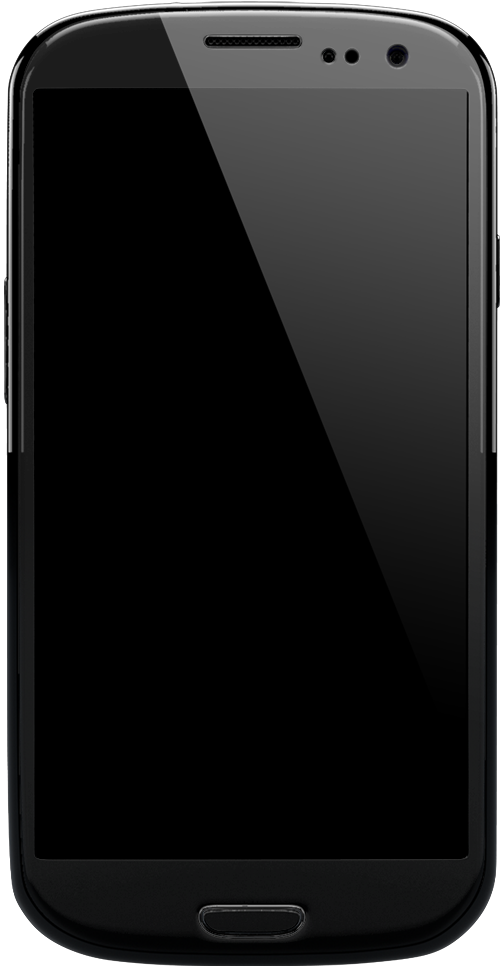
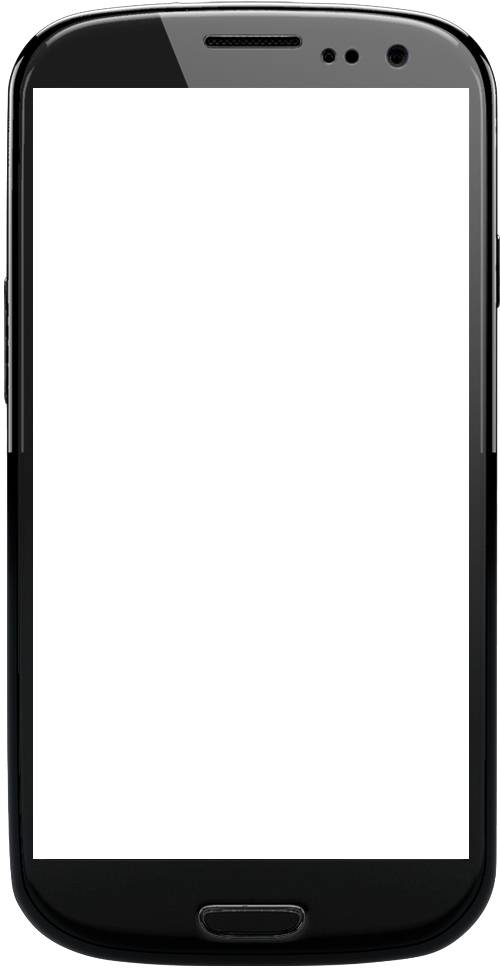
Working rough implementation

diff --git a/app.js b/app.js
@@ -1,33 +1,110 @@
 var http = require('http'),
 	express = require('express'),
+	fs = require('fs'),
 	gm = require('gm');
 
 var app = express();
 
-app.get('/generate/:device/:orientation', function(req, res){
+var randomFilename = function(prefix, extension) {
 
-	var devices = {"android-v": {width: 0, height: 0, image: ""},
-		"android-h": { width: 0, height: 0, image: ""},
-		"iphone-v": { width: 0, height: 0, image: ""},
-		"iphone-h": { width: 0, height: 0, image: ""}};
+	var randInt = function(min, max) {
+	    return Math.floor(min + (Math.random() * (max-min)));
+	};
 
-	var deviceName = req.params.device;
-	var orientation = req.params.orientation;
+    len = 32;
+ 
+    var chars = "0123456789ABCDEFGHIJKLMNOPQRSTUVWXTZabcdefghiklmnopqrstuvwxyz";
+    var ret = "";
+    while(ret.length < len) {
+        ret += chars[randInt(0, chars.length)];
+    }
 
+    return prefix + ret + '.' + extension;
+};
+
+function getDevices(){
+	var devices = {"android-l": {image: "android-landscape.png"},
+			"android-p": { image: "android-portrait.png"},
+			"iphone-p": { image: ""},
+			"iphone-l": { image: ""},
+			"windows-p": { image: ""},
+			"windows-l": { image: ""},
+			"tablet-p": { image: ""},
+			"tablet-l": { image: ""}};
+	return devices;
+}
+
+function getDevice(deviceName, orientation){
 	var deviceKey = deviceName + "-" + orientation;
-
-	var targetDevice = devices[deviceKey];
+	var targetDevice = getDevices()[deviceKey];
 	if (typeof(targetDevice) == "undefined"){
 		throw "Device " + deviceKey + " not recognized";
 	}
 
-	var filename = req.query.file;
+	return targetDevice;	
+}
 
-	console.log("Generating %s for %s", filename, deviceKey);
+app.get('/generate/:device/:orientation', function(req, res){
 
-	//var filename = eq.params.filename;
+	function generateScreenshot(deviceName, orientation, filename){
 
-	res.send('generated'); //Test response for now
+		var targetDevice = getDevice(deviceName, orientation);
+
+		//Get the width and height of the screenshot
+		gm(filename).size(function(err, size){
+			if (err){
+				throw err;
+			}
+
+			var newWidth = size.width * 1.14;
+
+			//Scale the transparent mobile frame to the width and height of the screenshot and save to a temp file
+			generatePlaceholder(filename, targetDevice.image, newWidth);
+
+		});
+	}
+
+	function generatePlaceholder(filename, deviceImage, newWidth){
+		var placeHolderFilename = "temp/" + randomFilename('temp', 'png');
+		gm("media/" + deviceImage).resize(newWidth, null).write(placeHolderFilename, function(err){
+			if (err){
+				throw err;
+			}
+
+			composeImages(filename, placeHolderFilename);
+		});
+	}
+
+	function composeImages(filename, placeHolderFilename){
+		//compose the frame over the screenshot, scaling/shifting the screenshot in the right place so that it appears in the center of the mobile frame 
+		//Save the composed image and delete any temp files
+		var outFilename = "temp/" + randomFilename('out', 'png');
+		gm().subCommand("composite")
+			.in("-geometry", "+24+64")
+			.in("-compose", "Over", filename, placeHolderFilename)
+			.write(outFilename, function(err){
+				if (err){
+					throw err;
+				}
+
+				fs.readFile(outFilename, displayImage);
+		});
+	}
+
+	function displayImage(err, img){
+		if (err){
+			throw err;
+		}
+
+		res.writeHead(200, {
+			'Content-Type': 'image/png',
+			'Cache-Control': "max-age=" + 43800*60 + ", must-revalidate"
+		});
+		res.end(img, 'binary');
+	}
+
+	generateScreenshot(req.params.device, req.params.orientation, req.query.file);
+
 });
 
 var server = app.listen(3000, function(){
